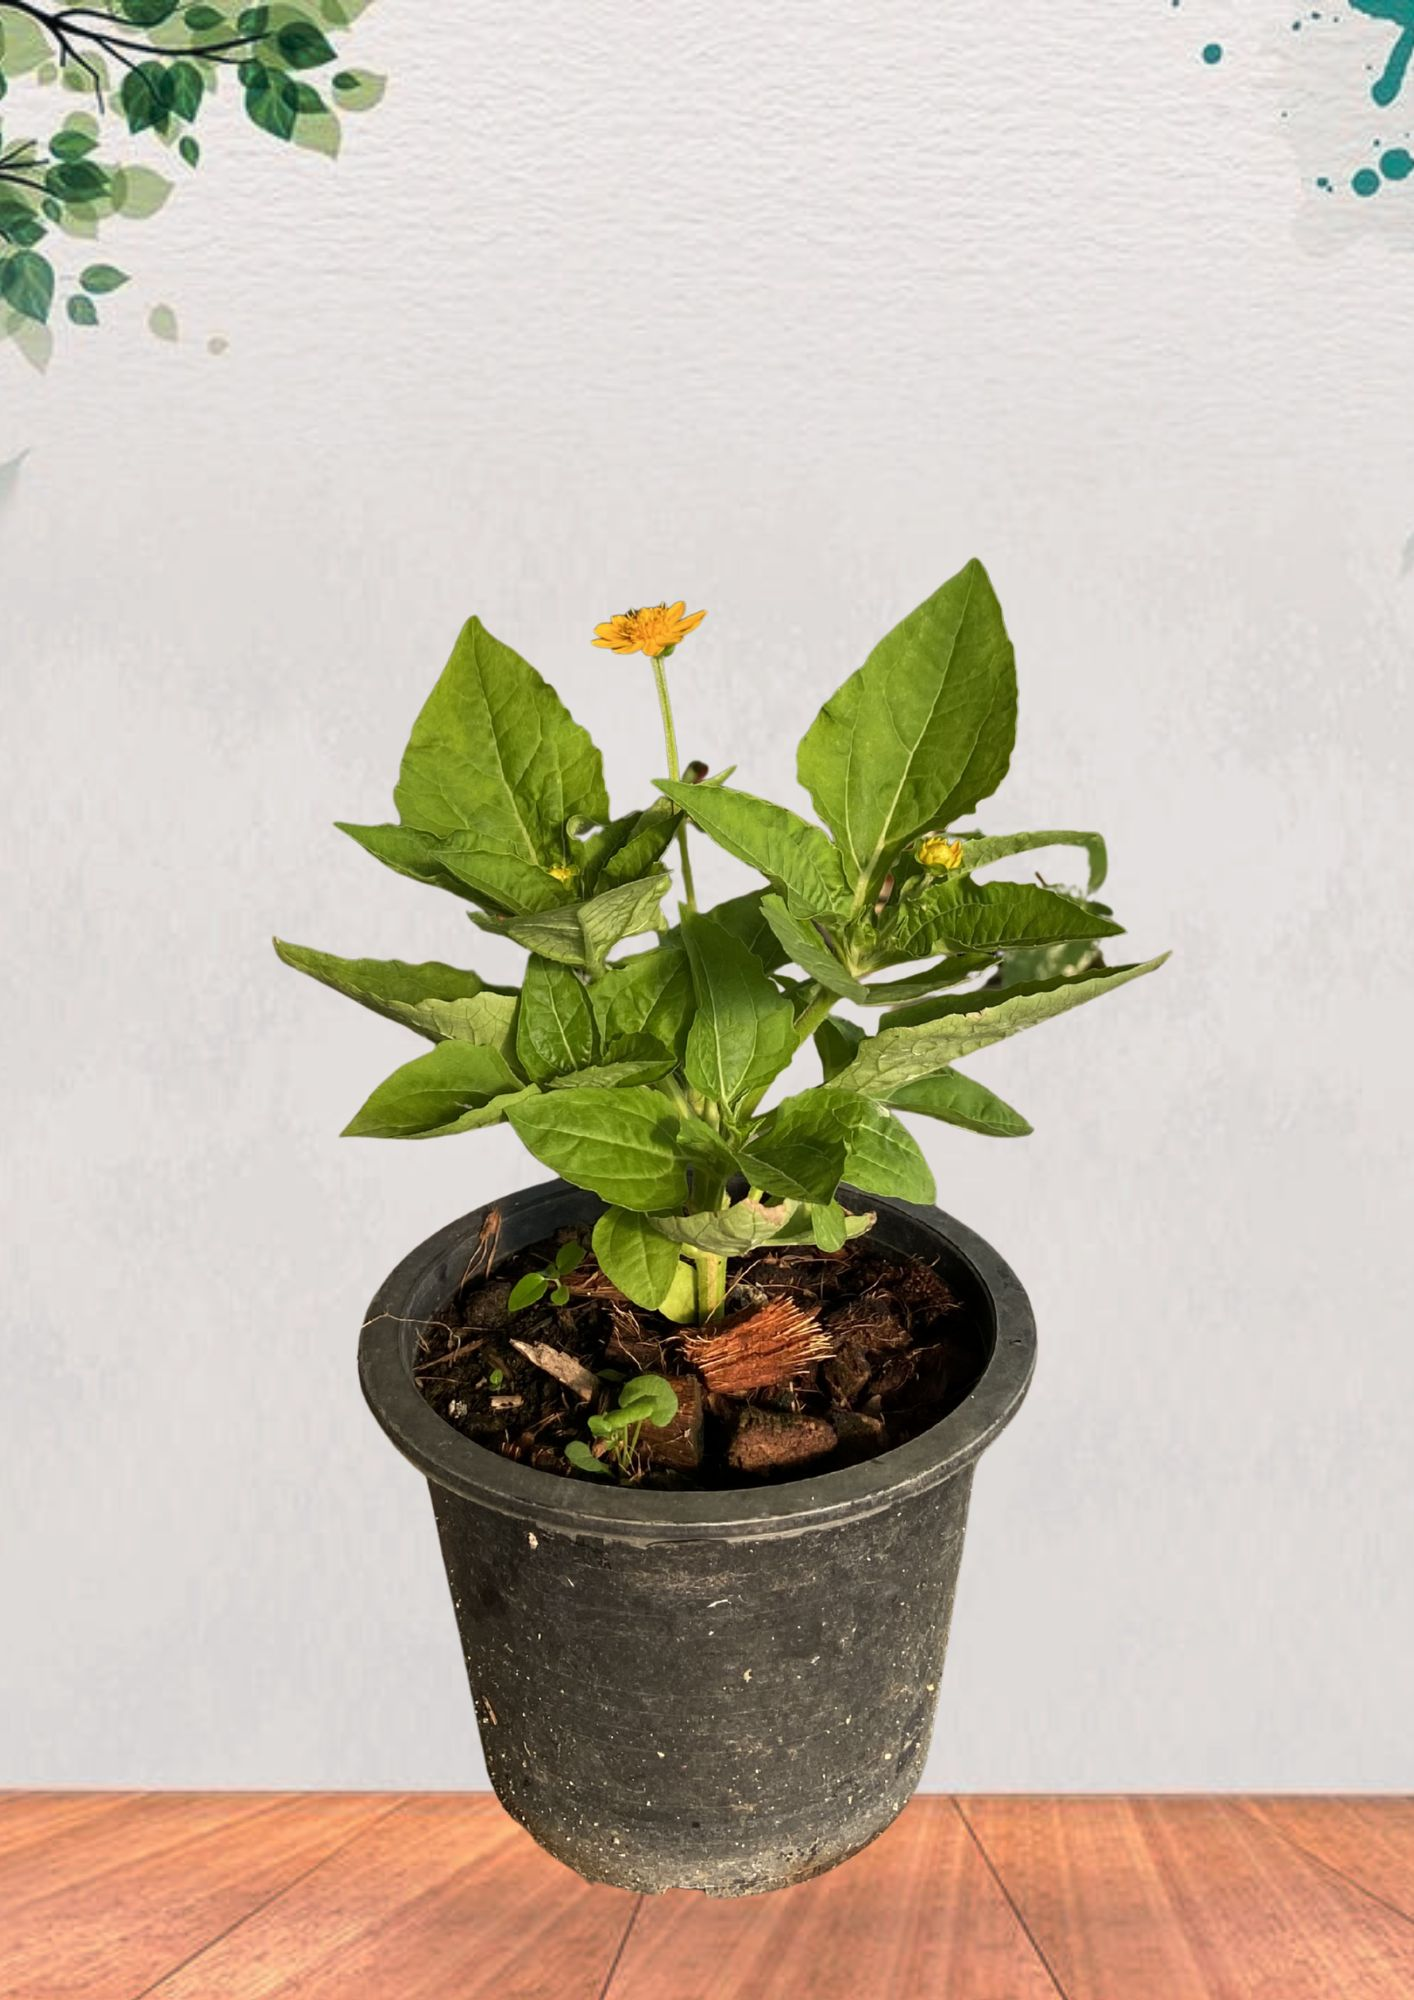
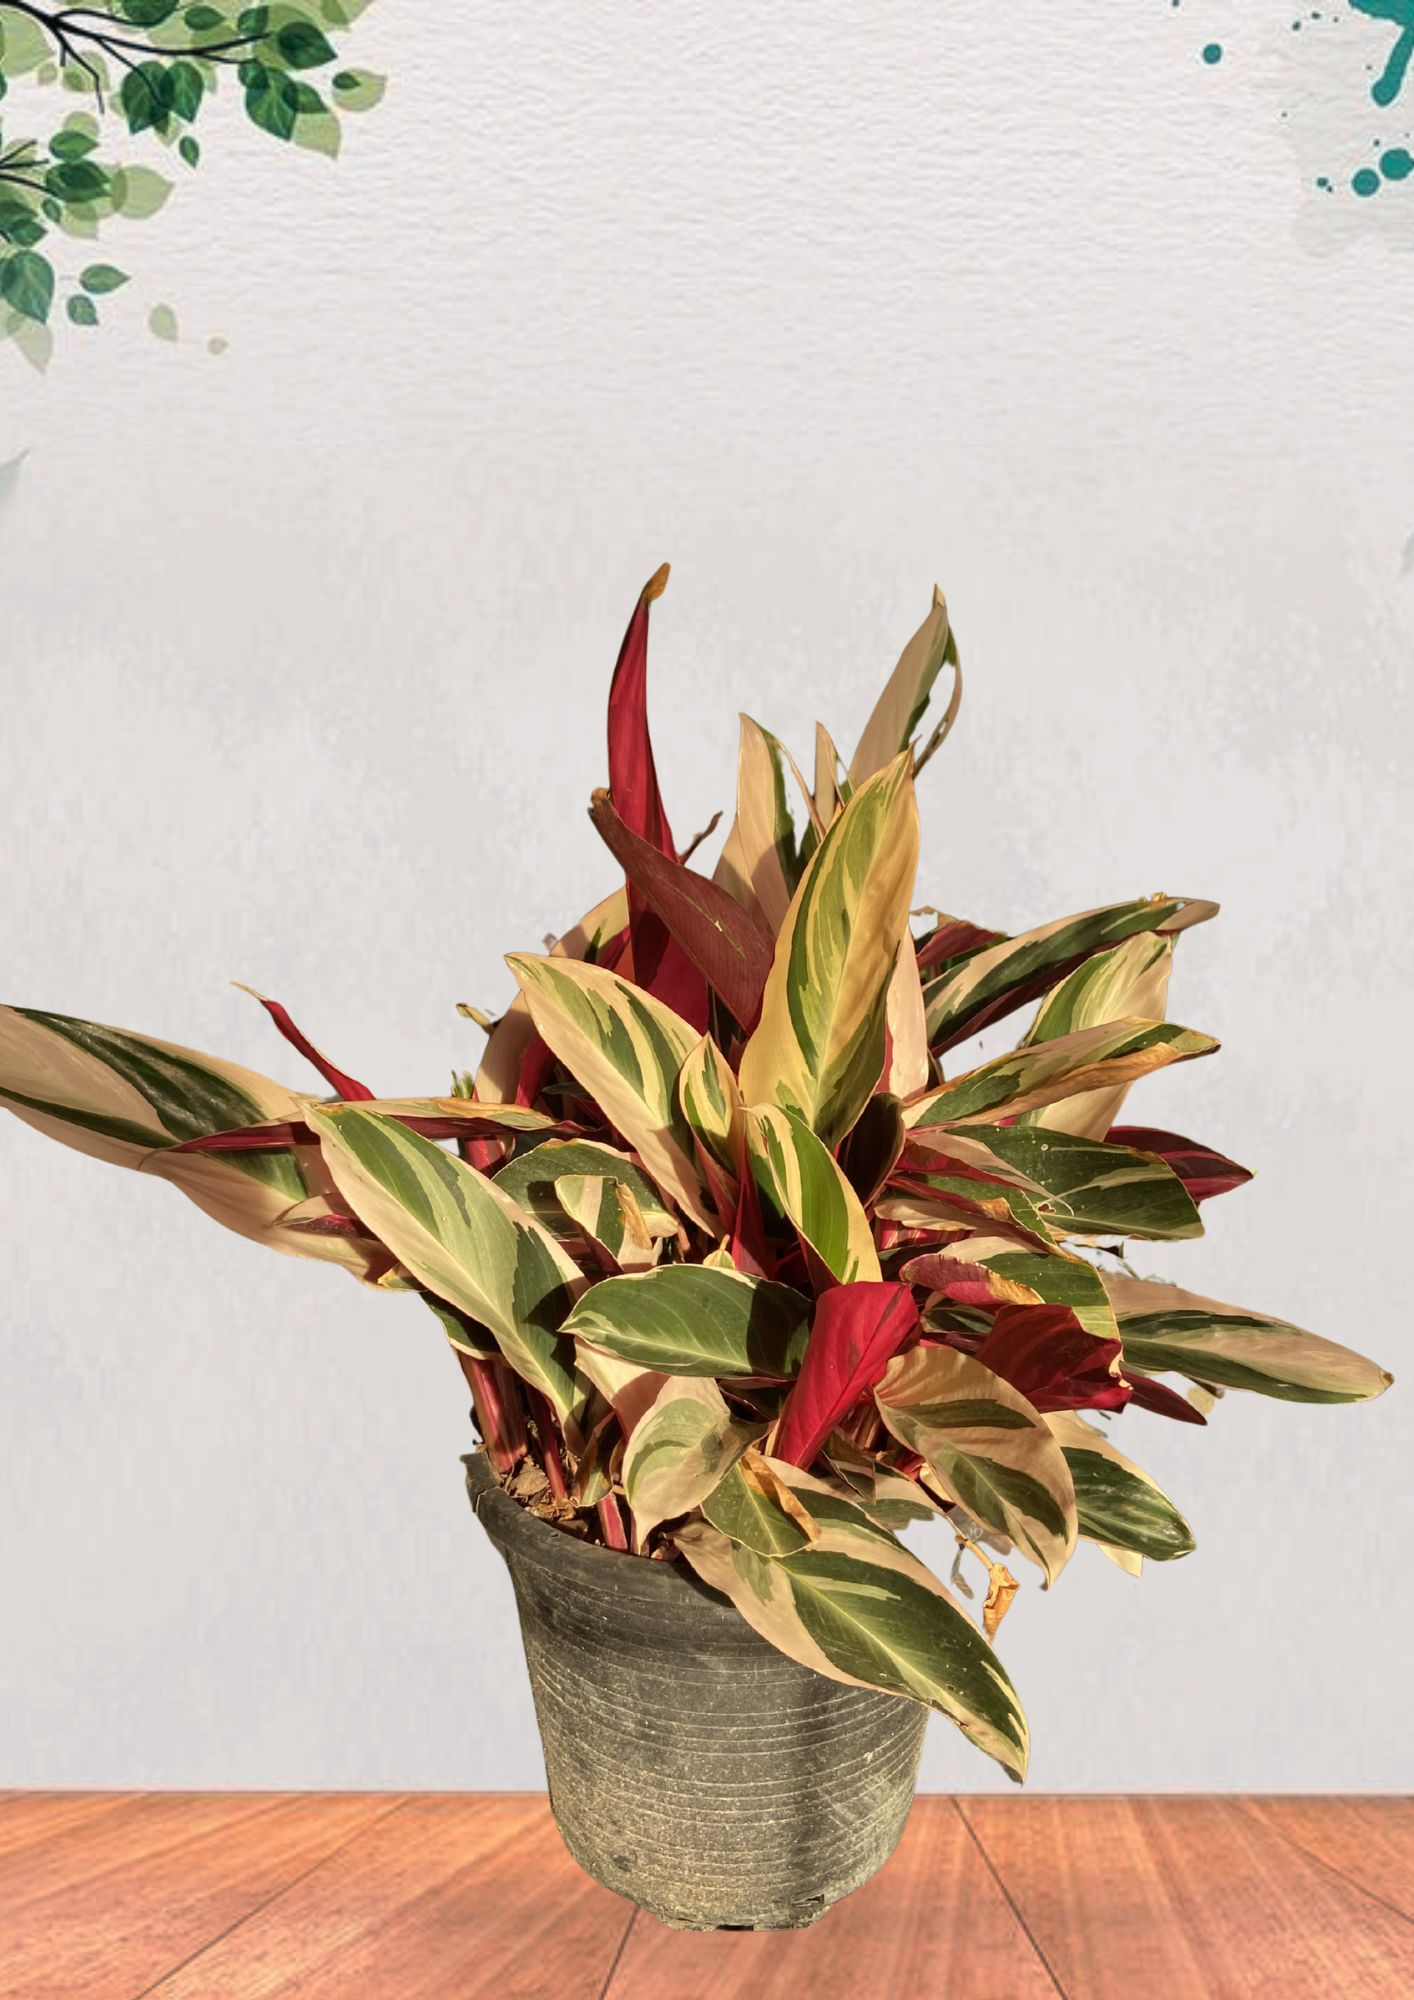
feat: Add new product images and a script to standardize database image paths from nested to flat structure.

diff --git a/seed_trees.js b/seed_trees.js
@@ -8,7 +8,7 @@ const mock_trees = [
         price: 150,
         category: 'ไม้มงคล',
         status: 'AVAILABLE',
-        images: JSON.stringify(['/images/products/udom-chok/udom-chok.jpg']),
+        images: JSON.stringify(['/images/products/udom-chok.jpg']),
         tags: 'ไม้มงคล,โชคลาภ',
         growthTime: '1–2 อาทิตย์',
         stock: 50
@@ -19,7 +19,7 @@ const mock_trees = [
         price: 150,
         category: 'ไม้มงคล',
         status: 'AVAILABLE',
-        images: JSON.stringify(['/images/products/nueng-jakawan/nueng-jakawan.jpg']),
+        images: JSON.stringify(['/images/products/nueng-jakawan.jpg']),
         tags: 'ไม้มงคล,ยอดนิยม',
         growthTime: '1–2 อาทิตย์',
         stock: 50
@@ -30,7 +30,7 @@ const mock_trees = [
         price: 150,
         category: 'ไม้มงคล',
         status: 'AVAILABLE',
-        images: JSON.stringify(['/images/products/som-prattana/som-prattana.jpg']),
+        images: JSON.stringify(['/images/products/som-prattana.jpg']),
         tags: 'ไม้มงคล',
         growthTime: '1–2 อาทิตย์',
         stock: 50
@@ -41,7 +41,7 @@ const mock_trees = [
         price: 35,
         category: 'ไม้ราคาประหยัด',
         status: 'AVAILABLE',
-        images: JSON.stringify(['/images/products/ruesi-phasom/ruesi-phasom.jpg']),
+        images: JSON.stringify(['/images/products/ruesi-phasom.jpg']),
         tags: 'ไม้ใบ,ราคาประหยัด',
         growthTime: '1–2 อาทิตย์',
         stock: 50
@@ -52,7 +52,7 @@ const mock_trees = [
         price: 350,
         category: 'ไม้มงคล',
         status: 'AVAILABLE',
-        images: JSON.stringify(['/images/products/ruay-sap/ruay-sap.jpg']),
+        images: JSON.stringify(['/images/products/ruay-sap.jpg']),
         tags: 'ไม้มงคล,โชคลาภ',
         growthTime: '1–2 อาทิตย์',
         stock: 50
@@ -63,7 +63,7 @@ const mock_trees = [
         price: 150,
         category: 'ไม้มงคล',
         status: 'AVAILABLE',
-        images: JSON.stringify(['/images/products/moradok-lok/moradok-lok.jpg']),
+        images: JSON.stringify(['/images/products/moradok-lok.jpg']),
         tags: 'ไม้มงคล,ไม้สะสม,หายาก',
         growthTime: '1–2 อาทิตย์',
         stock: 50
@@ -74,7 +74,7 @@ const mock_trees = [
         price: 150,
         category: 'ไม้มงคล',
         status: 'AVAILABLE',
-        images: JSON.stringify(['/images/products/phaya-kla-thong/phaya-kla-thong.jpg']),
+        images: JSON.stringify(['/images/products/phaya-kla-thong.jpg']),
         tags: 'ไม้มงคล,ไม้ใบ',
         growthTime: '1–2 อาทิตย์',
         stock: 50
@@ -85,7 +85,7 @@ const mock_trees = [
         price: 100,
         category: 'ไม้มงคล',
         status: 'AVAILABLE',
-        images: JSON.stringify(['/images/products/prihang-krajok/prihang-krajok.jpg']),
+        images: JSON.stringify(['/images/products/prihang-krajok.jpg']),
         tags: 'ไม้มงคล',
         growthTime: '1–2 อาทิตย์',
         stock: 50
@@ -96,7 +96,7 @@ const mock_trees = [
         price: 35,
         category: 'ไม้ราคาประหยัด',
         status: 'AVAILABLE',
-        images: JSON.stringify(['/images/products/dao-rueang/dao-rueang.jpg']),
+        images: JSON.stringify(['/images/products/dao-rueang.jpg']),
         tags: 'ไม้ดอก,มงคล,ราคาประหยัด',
         growthTime: '1–2 อาทิตย์',
         stock: 50
@@ -107,7 +107,7 @@ const mock_trees = [
         price: 35,
         category: 'ไม้ราคาประหยัด',
         status: 'AVAILABLE',
-        images: JSON.stringify(['/images/products/dok-get-thawa/dok-get-thawa.jpg']),
+        images: JSON.stringify(['/images/products/dok-get-thawa.jpg']),
         tags: 'ไม้ดอก,ราคาประหยัด',
         growthTime: '1–2 อาทิตย์',
         stock: 50
@@ -118,7 +118,7 @@ const mock_trees = [
         price: 150,
         category: 'ไม้มงคล',
         status: 'AVAILABLE',
-        images: JSON.stringify(['/images/products/chuan-chom/chuan-chom.jpg']),
+        images: JSON.stringify(['/images/products/chuan-chom.jpg']),
         tags: 'ไม้มงคล,ทนแล้ง',
         growthTime: '1–2 อาทิตย์',
         stock: 50
@@ -129,7 +129,7 @@ const mock_trees = [
         price: 50,
         category: 'ไม้ราคาประหยัด',
         status: 'AVAILABLE',
-        images: JSON.stringify(['/images/products/khum-phai/khum-phai.jpg']),
+        images: JSON.stringify(['/images/products/khum-phai.jpg']),
         tags: 'ไม้ใบ,มงคล,ราคาประหยัด',
         growthTime: '1–2 อาทิตย์',
         stock: 50
@@ -140,7 +140,7 @@ const mock_trees = [
         price: 350,
         category: 'ไม้มงคล',
         status: 'AVAILABLE',
-        images: JSON.stringify(['/images/products/kwak-phra-phrom/kwak-phra-phrom.jpg']),
+        images: JSON.stringify(['/images/products/kwak-phra-phrom.jpg']),
         tags: 'ไม้มงคล,หายาก',
         growthTime: '1–2 อาทิตย์',
         stock: 50
@@ -151,7 +151,7 @@ const mock_trees = [
         price: 35,
         category: 'ไม้ราคาประหยัด',
         status: 'AVAILABLE',
-        images: JSON.stringify(['/images/products/kradum-thong/kradum-thong.jpg']),
+        images: JSON.stringify(['/images/products/kradum-thong.jpg']),
         tags: 'ไม้ดอก,ราคาประหยัด',
         growthTime: '1–2 อาทิตย์',
         stock: 50
@@ -162,7 +162,7 @@ const mock_trees = [
         price: 35,
         category: 'ไม้ราคาประหยัด',
         status: 'AVAILABLE',
-        images: JSON.stringify(['/images/products/thai-huai-jai-dang/thai-huai-jai-dang.jpg']),
+        images: JSON.stringify(['/images/products/thai-huai-jai-dang.jpg']),
         tags: 'ไม้ใบ,ราคาประหยัด',
         growthTime: '1–2 อาทิตย์',
         stock: 50
@@ -173,7 +173,7 @@ const mock_trees = [
         price: 35,
         category: 'ไม้ราคาประหยัด',
         status: 'AVAILABLE',
-        images: JSON.stringify(['/images/products/toei-thong/toei-thong.jpg']),
+        images: JSON.stringify(['/images/products/toei-thong.jpg']),
         tags: 'ไม้ใบ,ราคาประหยัด',
         growthTime: '1–2 อาทิตย์',
         stock: 50
@@ -184,7 +184,7 @@ const mock_trees = [
         price: 600,
         category: 'ไม้พรีเมียม',
         status: 'AVAILABLE',
-        images: JSON.stringify(['/images/products/ngern-na/ngern-na.jpg']),
+        images: JSON.stringify(['/images/products/ngern-na.jpg']),
         tags: 'ไม้พรีเมียม,ไม้สะสม,โชคลาภ',
         growthTime: '1–2 อาทิตย์',
         stock: 50
@@ -195,7 +195,7 @@ const mock_trees = [
         price: 35,
         category: 'ไม้ราคาประหยัด',
         status: 'AVAILABLE',
-        images: JSON.stringify(['/images/products/pud-son/pud-son.jpg']),
+        images: JSON.stringify(['/images/products/pud-son.jpg']),
         tags: 'ไม้ดอก,ราคาประหยัด',
         growthTime: '1–2 อาทิตย์',
         stock: 50

diff --git a/fix_image_paths.js b/fix_image_paths.js
@@ -1,0 +1,92 @@
+// fix_image_paths.js
+// แก้ไข path รูปภาพใน Database จาก /images/products/{slug}/{slug}.jpg เป็น /images/products/{slug}.jpg
+require('dotenv').config();
+const { PrismaClient } = require('@prisma/client');
+
+const prisma = new PrismaClient({
+  datasources: {
+    db: {
+      url: process.env.DATABASE_URL
+    }
+  }
+});
+
+// Map จาก path เก่า (nested) -> ไฟล์ใหม่ (flat)
+const pathFixes = [
+  { old: '/images/products/udom-chok/udom-chok.jpg',            newPath: '/images/products/udom-chok.jpg' },
+  { old: '/images/products/nueng-jakawan/nueng-jakawan.jpg',    newPath: '/images/products/nueng-jakawan.jpg' },
+  { old: '/images/products/som-prattana/som-prattana.jpg',      newPath: '/images/products/som-prattana.jpg' },
+  { old: '/images/products/ruesi-phasom/ruesi-phasom.jpg',      newPath: '/images/products/ruesi-phasom.jpg' },
+  { old: '/images/products/ruay-sap/ruay-sap.jpg',              newPath: '/images/products/ruay-sap.jpg' },
+  { old: '/images/products/moradok-lok/moradok-lok.jpg',        newPath: '/images/products/moradok-lok.jpg' },
+  { old: '/images/products/phaya-kla-thong/phaya-kla-thong.jpg',newPath: '/images/products/phaya-kla-thong.jpg' },
+  { old: '/images/products/prihang-krajok/prihang-krajok.jpg',  newPath: '/images/products/prihang-krajok.jpg' },
+  { old: '/images/products/dao-rueang/dao-rueang.jpg',          newPath: '/images/products/dao-rueang.jpg' },
+  { old: '/images/products/dok-get-thawa/dok-get-thawa.jpg',    newPath: '/images/products/dok-get-thawa.jpg' },
+  { old: '/images/products/chuan-chom/chuan-chom.jpg',          newPath: '/images/products/chuan-chom.jpg' },
+  { old: '/images/products/khum-phai/khum-phai.jpg',            newPath: '/images/products/khum-phai.jpg' },
+  { old: '/images/products/kwak-phra-phrom/kwak-phra-phrom.jpg',newPath: '/images/products/kwak-phra-phrom.jpg' },
+  { old: '/images/products/kradum-thong/kradum-thong.jpg',      newPath: '/images/products/kradum-thong.jpg' },
+  { old: '/images/products/thai-huai-jai-dang/thai-huai-jai-dang.jpg', newPath: '/images/products/thai-huai-jai-dang.jpg' },
+  { old: '/images/products/toei-thong/toei-thong.jpg',          newPath: '/images/products/toei-thong.jpg' },
+  { old: '/images/products/ngern-na/ngern-na.jpg',              newPath: '/images/products/ngern-na.jpg' },
+  { old: '/images/products/ngoen-na/ngoen-na.jpg',              newPath: '/images/products/ngern-na.jpg' },
+  { old: '/images/products/pud-son/pud-son.jpg',                newPath: '/images/products/pud-son.jpg' },
+  { old: '/images/products/phin-nak-dang/phin-nak-dang.jpg',   newPath: '/images/products/phin-nak-dang.jpg' },
+  { old: '/images/products/nueng-nai-jakrawan/nueng-nai-jakrawan.jpg', newPath: '/images/products/nueng-nai-jakrawan.jpg' },
+  { old: '/images/products/som-prattana-premium/som-prattana-premium.jpg', newPath: '/images/products/som-prattana-premium.jpg' },
+  { old: '/images/products/donya-queen-sirikit/donya-queen-sirikit.jpg', newPath: '/images/products/donya-queen-sirikit.jpg' },
+];
+
+async function main() {
+  console.log('🔍 กำลังดึงข้อมูลต้นไม้ทั้งหมด...');
+  const trees = await prisma.tree.findMany({ select: { id: true, name: true, images: true } });
+  console.log(`พบต้นไม้ทั้งหมด ${trees.length} รายการ\n`);
+
+  let fixedCount = 0;
+  for (const tree of trees) {
+    let images;
+    try {
+      images = JSON.parse(tree.images);
+    } catch {
+      images = [tree.images];
+    }
+
+    let changed = false;
+    const fixedImages = images.map(img => {
+      const fix = pathFixes.find(f => f.old === img || img.includes('/images/products/') && img.endsWith('/' + img.split('/').pop()));
+      if (fix && img !== fix.newPath) {
+        console.log(`  ✅ ${tree.name}: ${img} → ${fix.newPath}`);
+        changed = true;
+        return fix.newPath;
+      }
+      // Auto-fix: ถ้าเป็น nested path เช่น /images/products/foo/foo.jpg → /images/products/foo.jpg
+      const nestedMatch = img.match(/^(\/images\/products\/)([^/]+)\/\2\.jpg$/);
+      if (nestedMatch) {
+        const flatPath = `${nestedMatch[1]}${nestedMatch[2]}.jpg`;
+        console.log(`  ✅ ${tree.name}: ${img} → ${flatPath}`);
+        changed = true;
+        return flatPath;
+      }
+      return img;
+    });
+
+    if (changed) {
+      await prisma.tree.update({
+        where: { id: tree.id },
+        data: { images: JSON.stringify(fixedImages) }
+      });
+      fixedCount++;
+    }
+  }
+
+  console.log(`\n✅ แก้ไขเสร็จสิ้น: ${fixedCount} รายการถูกอัปเดต`);
+}
+
+main()
+  .then(() => prisma.$disconnect())
+  .catch(async (e) => {
+    console.error('❌ Error:', e.message);
+    await prisma.$disconnect();
+    process.exit(1);
+  });
